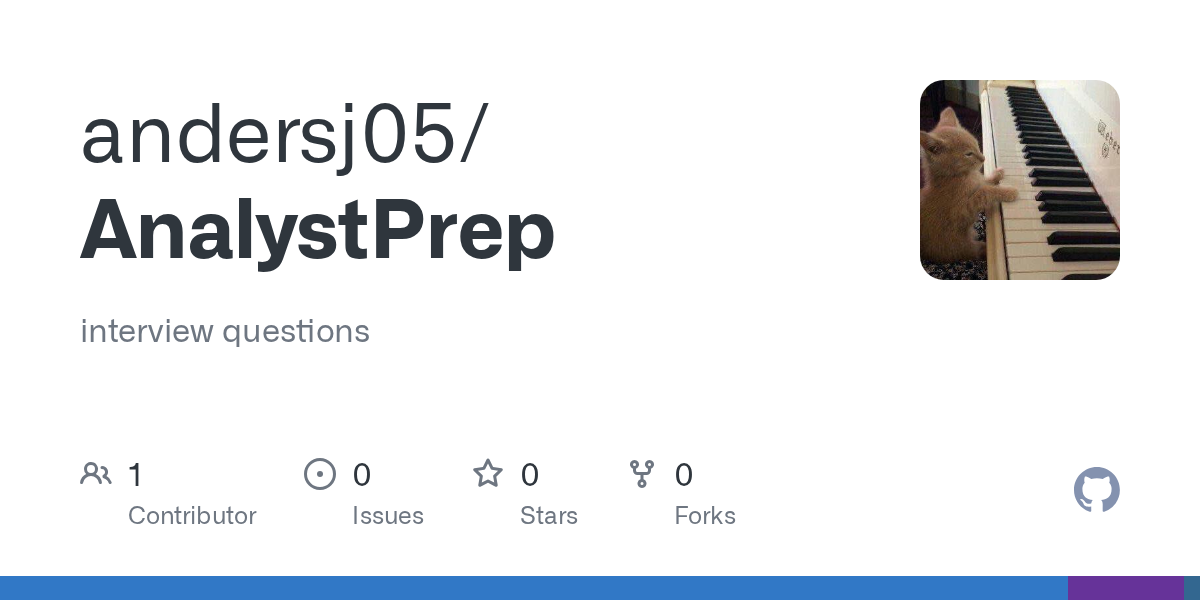
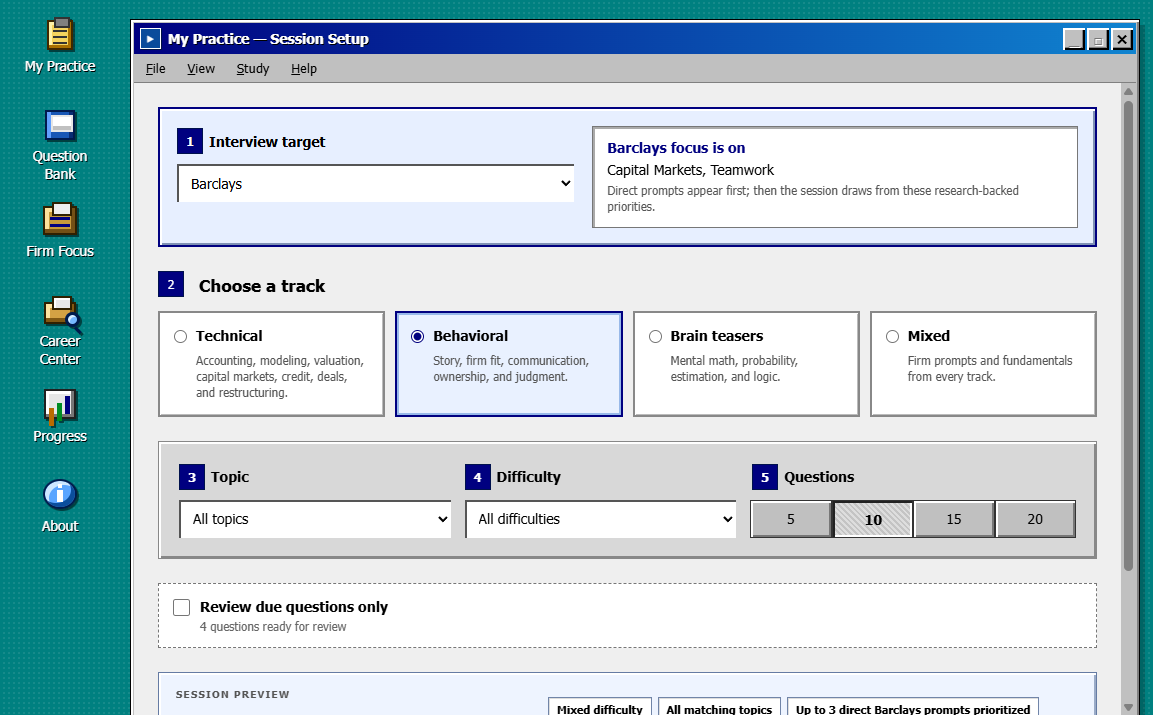
Refine project previews and descriptions

diff --git a/projects.html b/projects.html
@@ -61,16 +61,7 @@
       </header>
 
       <section class="project-details" id="projects" aria-label="Projects">
-        <article class="project-detail">
-          <figure class="project-visual">
-            <img
-              src="project-images/alpha-orchestration.png"
-              alt="GitHub preview for the AlphaOrchestration repository"
-              width="1200"
-              height="600"
-            />
-            <figcaption>repository preview / alpha-orchestration</figcaption>
-          </figure>
+        <article class="project-detail project-detail--text-only">
           <div class="project-copy">
             <div class="project-meta">
               <span>01</span>
@@ -96,31 +87,24 @@
           </div>
         </article>
 
-        <article class="project-detail">
-          <figure class="project-visual">
-            <img
-              src="project-images/kernelcubed.png"
-              alt="GitHub preview for the KernelCubed repository"
-              width="1200"
-              height="600"
-            />
-            <figcaption>repository preview / kernelcubed</figcaption>
-          </figure>
+        <article class="project-detail project-detail--text-only">
           <div class="project-copy">
             <div class="project-meta">
               <span>02</span>
-              <span>Python / CUDA / Inference</span>
+              <span>LLM Systems / CUDA / Benchmarking</span>
             </div>
             <h2>KernelCubed</h2>
             <p class="project-lede">
-              An inference engine and reproducible benchmark suite for
-              Qwen3-family models, currently focused on Qwen3.5 0.8B.
+              A GPU inference research platform for Qwen3-family models,
+              combining validated serving paths, reproducible benchmarks, and
+              custom CUDA prototypes.
             </p>
             <p>
-              I built inference prototypes and benchmark harnesses that measure
-              latency, memory, numerical parity, continuous batching, and agent
-              load. The project also explores custom CUDA attention and
-              compressed-memory paths against established baselines.
+              I use it to evaluate Qwen3.5 0.8B across Transformers and vLLM,
+              measuring latency, throughput, memory, token parity, continuous
+              batching, and multi-agent load. It also includes a custom Qwen3
+              decode-attention kernel and an experimental exact-window plus
+              compressed-memory path for long contexts.
             </p>
             <a
               class="project-action"
@@ -133,14 +117,14 @@
         </article>
 
         <article class="project-detail">
-          <figure class="project-visual">
+          <figure class="project-visual project-visual--square">
             <img
               src="project-images/analystprep.png"
-              alt="GitHub preview for the AnalystPrep repository"
-              width="1200"
-              height="600"
+              alt="AnalystPrep interview practice session setup screen"
+              width="1153"
+              height="715"
             />
-            <figcaption>repository preview / analystprep</figcaption>
+            <figcaption>application preview / analystprep</figcaption>
           </figure>
           <div class="project-copy">
             <div class="project-meta">
@@ -169,14 +153,14 @@
         </article>
 
         <article class="project-detail">
-          <figure class="project-visual project-visual--document">
+          <figure class="project-visual project-visual--chart">
             <img
               src="project-images/toll-road-report.png"
-              alt="First page of The Toll Road Moves macro research report"
-              width="1020"
-              height="1320"
+              alt="Employment index projections for AI-leading firms, incumbents, and industry including new entrants"
+              width="495"
+              height="561"
             />
-            <figcaption>report preview / the toll road moves</figcaption>
+            <figcaption>report figure / the toll road moves</figcaption>
           </figure>
           <div class="project-copy">
             <div class="project-meta">

diff --git a/styles.css b/styles.css
@@ -521,13 +521,13 @@ h1 {
 /* Projects */
 
 .projects-shell {
-  width: min(1040px, calc(100% - 44px));
+  width: min(1000px, calc(100% - 44px));
   min-height: calc(100svh - 91px);
   margin-inline: auto;
 }
 
 .projects-intro {
-  padding: clamp(2.5rem, 7vh, 4.5rem) 0 clamp(1.5rem, 4vh, 2.25rem);
+  padding: clamp(1.5rem, 4vh, 2.5rem) 0 clamp(1rem, 2.5vh, 1.4rem);
   border-bottom: 1px solid var(--ink);
 }
 
@@ -536,16 +536,20 @@ h1 {
 }
 
 .project-details {
-  padding-bottom: 3.5rem;
+  padding-bottom: 2rem;
 }
 
 .project-detail {
-  padding: clamp(2rem, 6vw, 4rem) 0;
+  padding: clamp(1.35rem, 3vw, 2.25rem) 0;
   display: grid;
-  grid-template-columns: minmax(0, 1.25fr) minmax(260px, 0.75fr);
+  grid-template-columns: minmax(220px, 0.5fr) minmax(0, 1.5fr);
   align-items: center;
-  gap: clamp(1.5rem, 5vw, 4rem);
+  gap: clamp(1.25rem, 3vw, 2.25rem);
   border-bottom: 1px solid var(--line);
+}
+
+.project-detail:nth-child(even):not(.project-detail--text-only) {
+  grid-template-columns: minmax(0, 1.5fr) minmax(220px, 0.5fr);
 }
 
 .project-detail:nth-child(even) .project-visual {
@@ -557,12 +561,42 @@ h1 {
   grid-column: 1;
 }
 
+.project-detail--text-only {
+  grid-template-columns: 1fr;
+}
+
+.project-detail--text-only .project-copy {
+  width: 100%;
+  display: grid;
+  grid-template-columns: minmax(200px, 0.65fr) minmax(0, 1.35fr);
+  column-gap: clamp(1.5rem, 4vw, 3rem);
+}
+
+.project-detail--text-only .project-meta {
+  grid-column: 1 / -1;
+}
+
+.project-detail--text-only .project-lede,
+.project-detail--text-only .project-lede + p {
+  grid-column: 2;
+}
+
+.project-detail--text-only .project-lede + p {
+  grid-row: 3;
+}
+
+.project-detail--text-only .project-action {
+  grid-row: 3;
+  grid-column: 1;
+  place-self: start;
+}
+
 .project-visual {
   margin: 0;
   overflow: hidden;
   border: 1px solid var(--ink);
   background: white;
-  box-shadow: 8px 8px 0 var(--terminal-soft);
+  box-shadow: 6px 6px 0 var(--terminal-soft);
 }
 
 .project-visual img {
@@ -571,10 +605,14 @@ h1 {
   object-fit: cover;
 }
 
-.project-visual--document img {
-  aspect-ratio: 16 / 10;
-  object-fit: cover;
-  object-position: top;
+.project-visual--square img,
+.project-visual--chart img {
+  aspect-ratio: 1;
+  object-fit: contain;
+}
+
+.project-visual--chart img {
+  padding: clamp(0.75rem, 2vw, 1.25rem);
 }
 
 .project-visual figcaption {
@@ -591,7 +629,7 @@ h1 {
 }
 
 .project-meta {
-  margin-bottom: 0.8rem;
+  margin-bottom: 0.6rem;
   display: flex;
   align-items: center;
   justify-content: space-between;
@@ -606,7 +644,7 @@ h1 {
 }
 
 .project-copy h2 {
-  margin-bottom: 0.65rem;
+  margin-bottom: 0.45rem;
   font-family: var(--mono);
   font-size: clamp(1.05rem, 2vw, 1.35rem);
   line-height: 1.25;
@@ -616,7 +654,7 @@ h1 {
   margin-bottom: 0;
   color: var(--muted);
   font-size: 0.77rem;
-  line-height: 1.65;
+  line-height: 1.55;
 }
 
 .project-copy .project-lede {
@@ -625,11 +663,11 @@ h1 {
 }
 
 .project-copy .project-lede + p {
-  margin-top: 1.2rem;
+  margin-top: 0.8rem;
 }
 
 .project-action {
-  margin-top: 1.4rem;
+  margin-top: 1rem;
   display: inline-block;
   padding: 0.5rem 0.7rem;
   border: 1px solid var(--ink);
@@ -908,11 +946,16 @@ h1 {
   }
 
   .projects-shell {
-    width: min(100% - 28px, 1040px);
+    width: min(100% - 28px, 1000px);
   }
 
   .project-detail {
     grid-template-columns: 1fr;
+    gap: 1.25rem;
+  }
+
+  .project-detail--text-only .project-copy {
+    display: block;
   }
 
   .project-detail:nth-child(even) .project-visual,
@@ -949,7 +992,7 @@ h1 {
   }
 
   .project-detail {
-    padding: 2rem 0 2.5rem;
+    padding: 1.35rem 0 1.6rem;
   }
 
   .project-visual {
